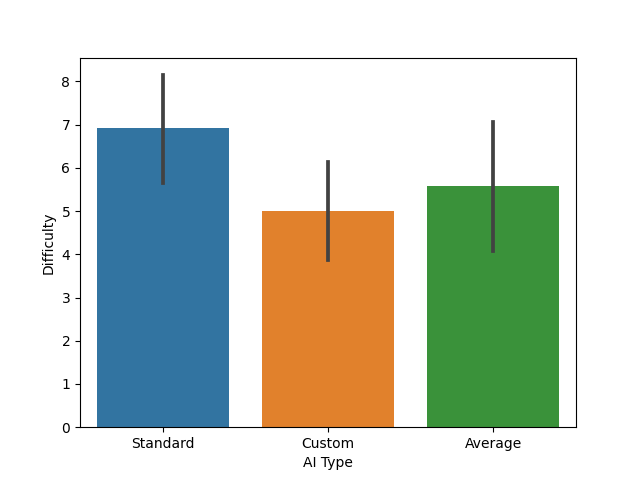
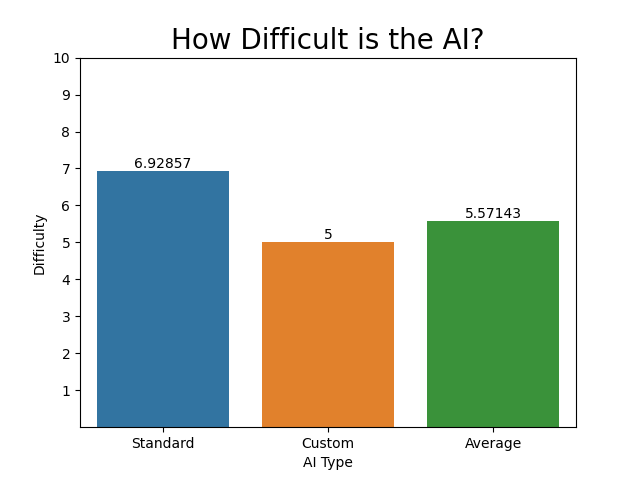
Update data analysis figures

diff --git a/data-analysis/analysis.py b/data-analysis/analysis.py
@@ -17,19 +17,28 @@ def plot_difficulty_vs_fun(df):
     plt.clf()
 
 def plot_ai_difficulties(df):
-    plot = sns.barplot(df, x='AI Type', y='Difficulty')
+    plot = sns.barplot(df, x='AI Type', y='Difficulty', errorbar=None)
+    plot.set_yticks(range(1, 11), labels=range(1, 11))
+    plot.bar_label(plot.containers[0])
+    plt.title('How Difficult is the AI?', fontsize=20)
     fig = plot.get_figure()
     fig.savefig(OUT_DIR + "AI_difficulties.png")
     plt.clf()
 
 def plot_ai_fun(df):
-    plot = sns.barplot(df, x='AI Type', y='Fun')
+    plot = sns.barplot(df, x='AI Type', y='Fun', errorbar=None)
+    plot.set_yticks(range(1, 11), labels=range(1, 11))
+    plot.bar_label(plot.containers[0])
+    plt.title('How Fun is the AI?', fontsize=20)
     fig = plot.get_figure()
     fig.savefig(OUT_DIR + "AI_fun.png")
     plt.clf()
 
 def plot_ai_humanlike(df):
-    plot = sns.barplot(df, x='AI Type', y='Humanlike')
+    plot = sns.barplot(df, x='AI Type', y='Humanlike', errorbar=None)
+    plot.set_yticks(range(1, 11), labels=range(1, 11))
+    plot.bar_label(plot.containers[0])
+    plt.title('How Humanlike is the AI?', fontsize=20)
     fig = plot.get_figure()
     fig.savefig(OUT_DIR + "AI_humanlike.png")
     plt.clf()
@@ -39,6 +48,7 @@ def plot_ai_outcomes(df):
         data=df,
         x="AI Type", hue="Outcome"
     )
+    plt.title('What Was the Game\'s Outcome?', fontsize=20)
     fig = plot.get_figure()
     fig.savefig(OUT_DIR + "AI_outcomes.png")
     plt.clf()
@@ -80,12 +90,12 @@ def wordcloud(df):
     plt.clf()
 
 def generate_plots(df):
-    plot_difficulty_vs_fun(df)
+    #plot_difficulty_vs_fun(df)
     plot_ai_difficulties(df)
     plot_ai_fun(df)
     plot_ai_humanlike(df)
     plot_ai_outcomes(df)
-    wordcloud(df)
+    #wordcloud(df)
 
 def main():
     df = load_data(DATA_FN)
